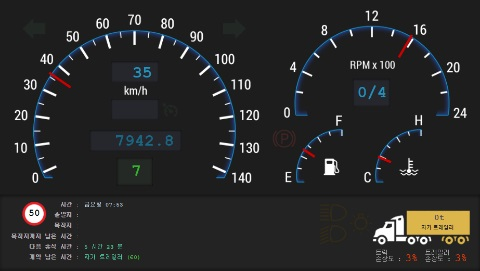
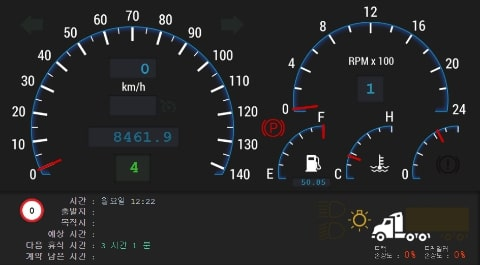
Update preview images

diff --git a/server/Html/skins/default/dashboard.js b/server/Html/skins/default/dashboard.js
@@ -36,7 +36,6 @@ Funbit.Ets.Telemetry.Dashboard.prototype.filter = function (data, utils) {
     // This filter is used to change telemetry data 
     // before it is displayed on the dashboard.
     // You may convert km/h to mph, kilograms to tons, etc.
-	
 	data.job.destinationCompany = "(" + data.job.destinationCompany + ")"
 	data.job.sourceCompany = "(" + data.job.sourceCompany + ")"
     data.hasJob = data.trailer.attached;
@@ -55,7 +54,7 @@ Funbit.Ets.Telemetry.Dashboard.prototype.filter = function (data, utils) {
 	data.truck.fuelAverageConsumption = data.truck.fuelAverageConsumption < 100
 		? data.truck.fuelAverageConsumption * 100
 		: data.truck.fuelAverageConsumption * 1000;
-	data.truck.fuelAverageConsumption = utils.formatFloat(data.truck.fuelAverageConsumption,1);
+	data.truck.fuelAverageConsumption = utils.formatFloat(data.truck.fuelAverageConsumption,2);
     // convert gear to readable format
     data.truck.gear = data.truck.displayedGear; // use displayed gear
     data.truck.gear = data.truck.gear > 0
@@ -70,7 +69,7 @@ Funbit.Ets.Telemetry.Dashboard.prototype.filter = function (data, utils) {
     data.truck.wearSum = Math.round(wearSumPercent) + '%';
     data.trailer.wear = Math.round(data.trailer.wear * 100) + '%';
 	// convert estimatedDistance to estimatedDistance / 1000
-	data.navigation.estimatedDistance = (data.navigation.estimatedDistance / 1000).toPrecision + "Km";
+	data.navigation.estimatedDistance = ', ' + Math.floor(data.navigation.estimatedDistance / 1000) + 'Km';
 	// retarderBrake to retarderBrake / retarderStepCount
 	if (data.truck.retarderStepCount == '0') {
 		data.truck.retarderBrake = '';
@@ -83,7 +82,8 @@ Funbit.Ets.Telemetry.Dashboard.prototype.filter = function (data, utils) {
 		data.job.sourceCity = "";
 		data.job.sourceCompany = "";
 		data.job.income = "0";
-		data.job.remainingTime = 'own'
+		data.job.remainingTime = 'own';
+		data.navigation.estimatedDistance = '';
 	};
     // return changed data to the core for rendering
     return data;

diff --git a/server/Html/skins/default-mph/dashboard.js b/server/Html/skins/default-mph/dashboard.js
@@ -57,7 +57,7 @@ Funbit.Ets.Telemetry.Dashboard.prototype.filter = function (data, utils) {
 	data.truck.fuelAverageConsumption = data.truck.fuelAverageConsumption < 100
 		? data.truck.fuelAverageConsumption * 100
 		: data.truck.fuelAverageConsumption * 1000;
-	data.truck.fuelAverageConsumption = utils.formatFloat(data.truck.fuelAverageConsumption,1);
+	data.truck.fuelAverageConsumption = utils.formatFloat(data.truck.fuelAverageConsumption,2);
     // convert gear to readable format
     data.truck.gear = data.truck.displayedGear; // use displayed gear
     data.truck.gear = data.truck.gear > 0
@@ -72,7 +72,7 @@ Funbit.Ets.Telemetry.Dashboard.prototype.filter = function (data, utils) {
     data.truck.wearSum = Math.round(wearSumPercent) + '%';
     data.trailer.wear = Math.round(data.trailer.wear * 100) + '%';
 	// convert estimatedDistance to estimatedDistance / 1000
-	data.navigation.estimatedDistance = (data.navigation.estimatedDistance / 1000).toPrecision + "Km";
+	data.navigation.estimatedDistance = Math.floor(data.navigation.estimatedDistance / 1000) + 'Km';
 	// retarderBrake to retarderBrake / retarderStepCount
 	if (data.truck.retarderStepCount == '0') {
 		data.truck.retarderBrake = '';

diff --git a/server/Html/skins/default-mph/dashboard.css b/server/Html/skins/default-mph/dashboard.css
@@ -354,7 +354,9 @@
 }
 .job-remainingTime,
 .game-nextRestStopTime,
-.navigation-estimatedTime {
+.navigation-estimatedTime,
+.navigation-estimatedDistance,
+._estDis {
   color: #54d9a8;
 }
 ._jobIncome {
@@ -377,6 +379,7 @@
 ._truckWearInfo,
 ._trailerWearInfo,
 .job-remainingTime,
+.navigation-estimatedDistance,
 ._jobIncome,
 ._jobSource,
 ._jobDestionation {
@@ -401,6 +404,7 @@
 .hasJob.yes .trailer-mass,
 .hasJob.yes .trailer-name,
 .hasJob.yes .job-remainingTime,
+.hasJob.yes .navigation-estimatedDistance,
 .hasJob.yes ._jobIncome,
 .hasJob.yes .navigation-estimatedTime,
 .hasJob.yes ._jobSource,

diff --git a/server/Html/skins/default/dashboard.css b/server/Html/skins/default/dashboard.css
@@ -354,7 +354,8 @@
 }
 .job-remainingTime,
 .game-nextRestStopTime,
-.navigation-estimatedTime {
+.navigation-estimatedTime,
+.navigation-estimatedDistance {
   color: #54d9a8;
 }
 ._jobIncome {
@@ -377,6 +378,7 @@
 ._truckWearInfo,
 ._trailerWearInfo,
 .job-remainingTime,
+.navigation-estimatedDistance,
 ._jobIncome,
 ._jobSource,
 ._jobDestionation {
@@ -401,6 +403,7 @@
 .hasJob.yes .trailer-mass,
 .hasJob.yes .trailer-name,
 .hasJob.yes .job-remainingTime,
+.hasJob.yes .navigation-estimatedDistance,
 .hasJob.yes ._jobIncome,
 .hasJob.yes .navigation-estimatedTime,
 .hasJob.yes ._jobSource,

diff --git a/server/Html/skins/default-mph/dashboard.html b/server/Html/skins/default-mph/dashboard.html
@@ -50,7 +50,7 @@
             </tr>
             <tr>
                 <th>예상 시간 :</th>
-                <td><span class="hasJob navigation-estimatedTime"></span></td>
+                <td><span class="hasJob navigation-estimatedTime"></span><span class="hasJob navigation-estimatedDistance"></span></td>
             </tr>
 				<th>다음 휴식 시간 : </th>
 				<td><span class="game-nextRestStopTime"></span></td>

diff --git a/server/Html/skins/default/dashboard.html b/server/Html/skins/default/dashboard.html
@@ -50,7 +50,7 @@
             </tr>
             <tr>
                 <th>예상 시간 :</th>
-                <td><span class="hasJob navigation-estimatedTime"></span></td>
+                <td><span class="hasJob navigation-estimatedTime"></span><span class="hasJob navigation-estimatedDistance"></span></td>
             </tr>
 				<th>다음 휴식 시간 : </th>
 				<td><span class="game-nextRestStopTime"></span></td>

diff --git a/Readme.md b/Readme.md
@@ -4,6 +4,8 @@
 
 웹소켓과 REST API에 기반한 C#으로 작성된 [Euro Truck Simulator 2](http://www.eurotrucksimulator2.com/) 와 [American Truck Simulator](http://www.americantrucksimulator.com/)를 위한 무료 Telemetry 웹 서버 입니다. 클라이언트쪽에선 최신 데스크탑과 모바일 브라우저에서 스킨을 씌울 수 있는 HTML5 모바일 대시보드 앱으로 구성됩니다.
 
+[마음이 급하시면 여기를 눌러 다운로드 방법 및 설치 방법으로 건너 뜁니다.](#설정)
+
 ## 주요 기능
 
 - 오픈 소스 및 무료 사용가능
@@ -24,14 +26,14 @@ Telemetry REST API 관련 내용은 [원본 제작자 Funbit github (영문)](ht
 
 이 HTML5 대시보드 어플리케이션은 모바일과 데스크탑을 위해 디자인 되었습니다. 이 어플리케이션은 모바일 사파리(iOS 8 이상), 안드로이드 4.0 이상 브라우저(기본 브라우저나 크롬 등)이나 아무 데스크탑 브라우저에서 URL에 들어가는 것만으로 이용 할 수있습니다.
 
-모바일 대시보드는 브라우저에서 아래와 같이 뜹니다.
+대시보드는 브라우저에서 아래와 같이 뜹니다.
 
 ![](https://raw.githubusercontent.com/icaros7/ets2-kor-telemetry-server/master/server/Html/skins/default/dashboard.jpg)
 
 
-패키지엔 다른 현실적인 스킨도 포함되어있습니다. 예시로 MAN-TGX 스킨 사진:
+패키지엔 다른 현실적인 스킨도 포함되어있습니다. 예시로 Peterbilt 579 스킨 사진:
 
-![](https://raw.githubusercontent.com/icaros7/ets2-kor-telemetry-server/master/server/Html/skins/man-tgx/images/bg-on.jpg)
+![](https://raw.githubusercontent.com/icaros7/ets2-kor-telemetry-server/master/server/Html/skins/peterbilt579/dashboard.jpg)
 
 그리고 대시보드 디자인은 완전히 커스텀 할 수 있습니다. HTML과 CSS에 대한 아주 기초적인 지식만 있다면 직접 자신만의 스킨을 만들수도 있습니다. 더 자세한 내용은 대시보드 스킨 튜토리얼을 따르세요.
 
@@ -69,6 +71,8 @@ Telemetry REST API 관련 내용은 [원본 제작자 Funbit github (영문)](ht
 2. 25555번 포트에 대한 로컬 서브넷 허용 규칙을 "ETS2 TELEMETRY SERVER (PORT 25555)" 이름으로 엽니다. (참고로 외부 인터넷에선 이걸 따로 볼수 없습니다. 그래서 안전합니다.)
 3. Microsoft OWIN의 httpListener ([자세한 내용](http://msdn.microsoft.com/en-us/library/ms733768%28v=vs.110%29.aspx))가 25555번 포트를 통해 사용을 위해 새로운 ACL 규칙을 만듭니다.
 4. 어플리케이션 설정 파일을 만듭니다. "\Users\USERNAME\AppData\Local\Ets2 Telemetry Server".
+
+![](https://raw.githubusercontent.com/icaros7/ets2-kor-telemetry-server/master/server/screenshot.png)
 
 서버는 모든 것을 로그 파일 (Ets2Temetry.log)에 기록합니다. 로그에 잘 나와있습니다. (이 역시 한글)
 
